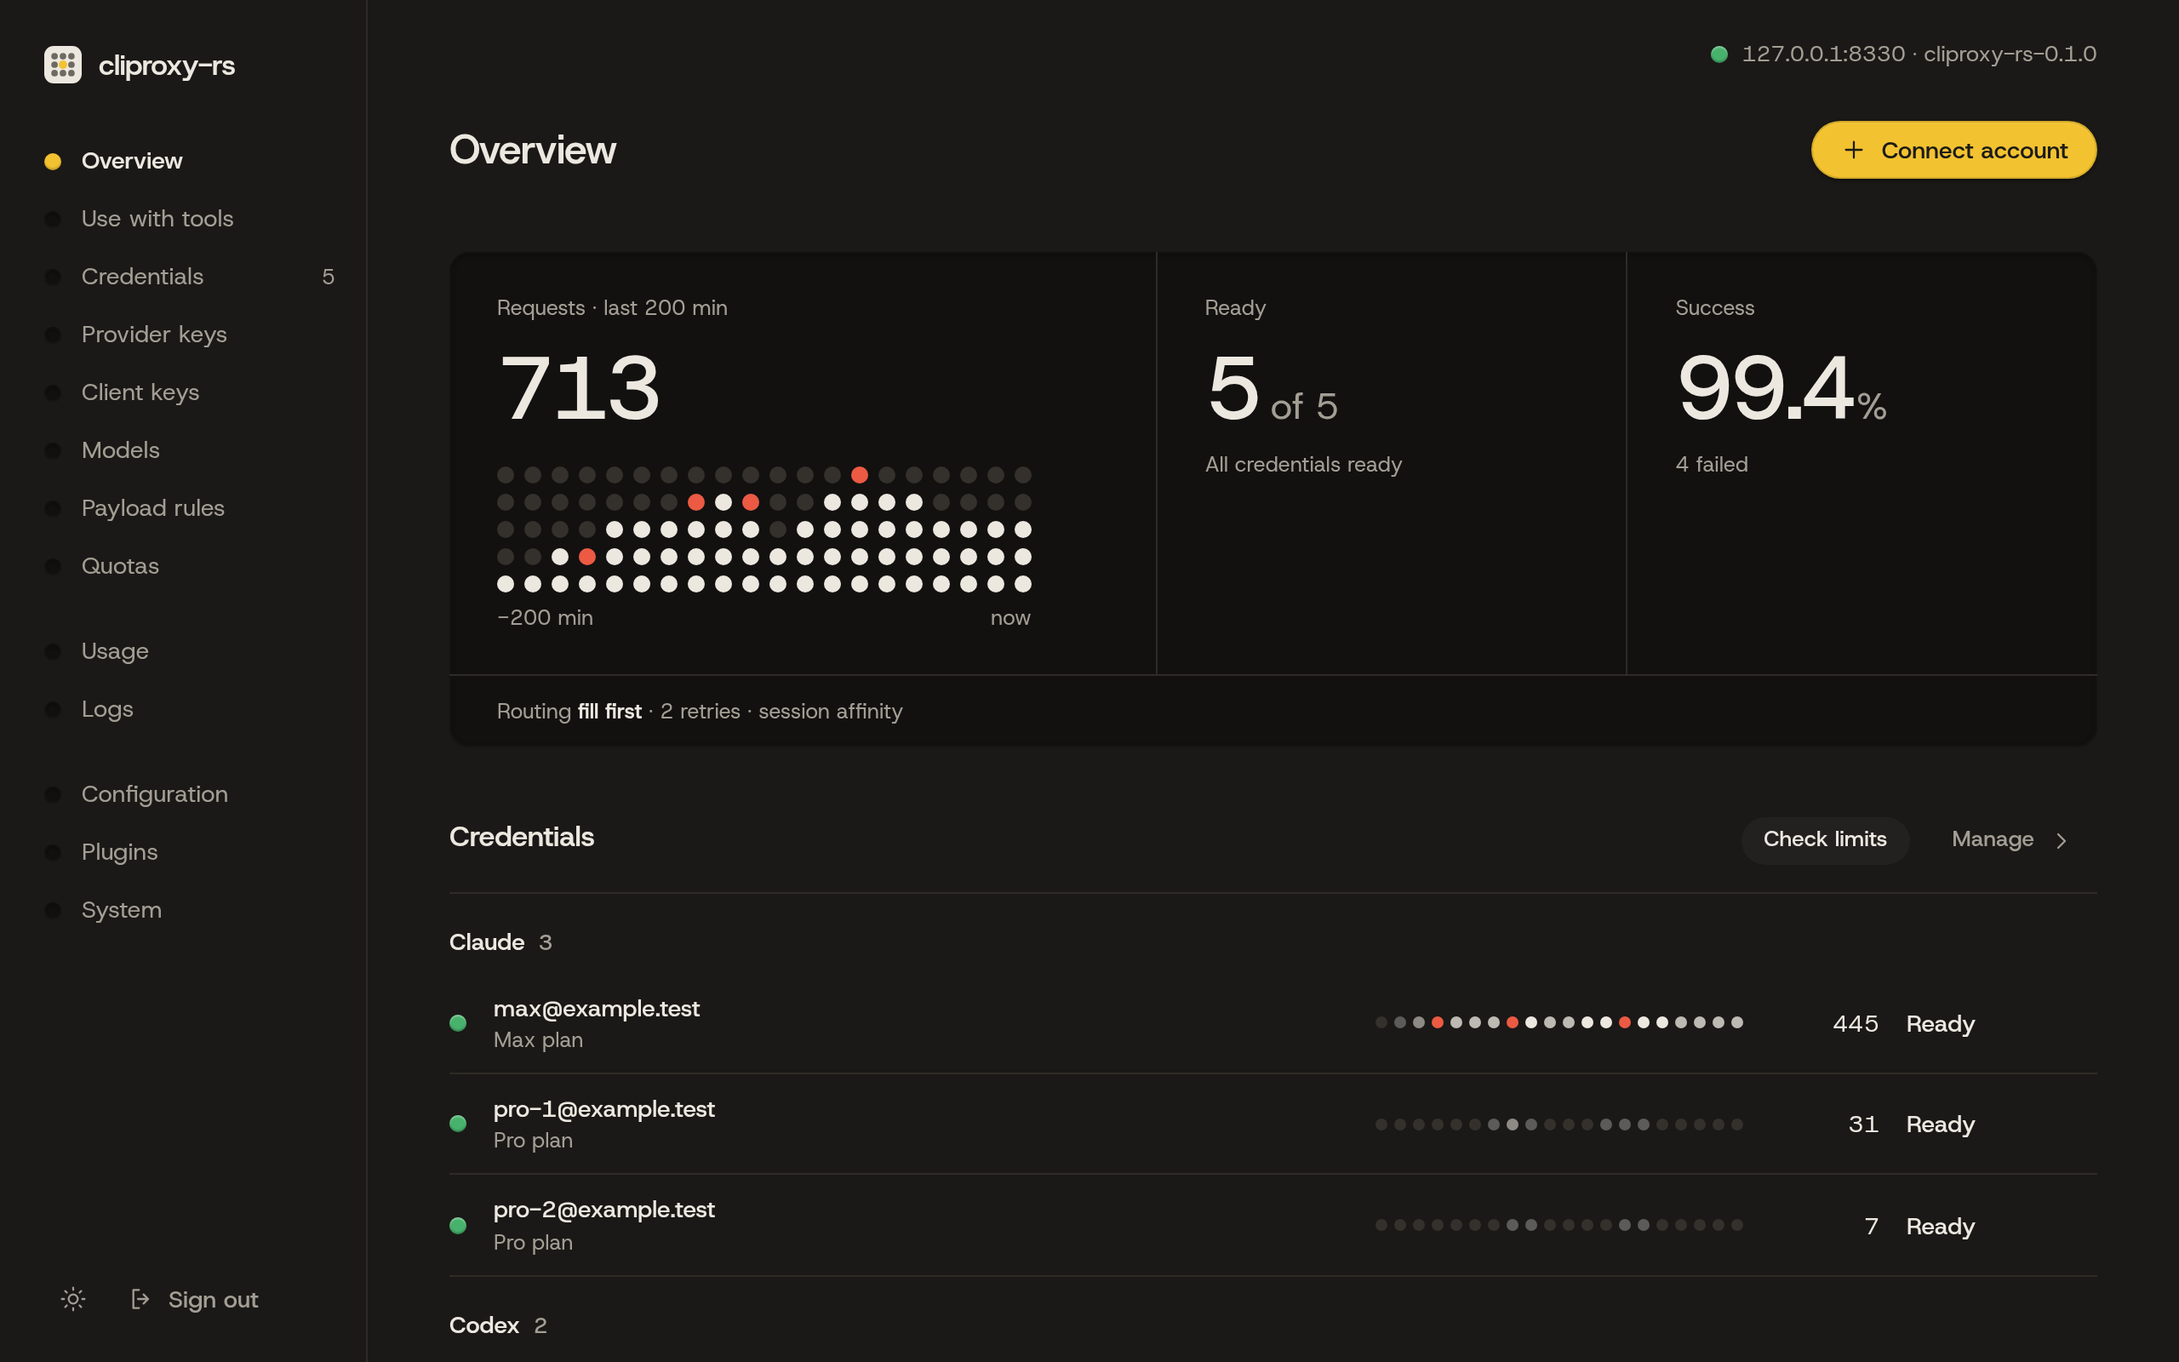
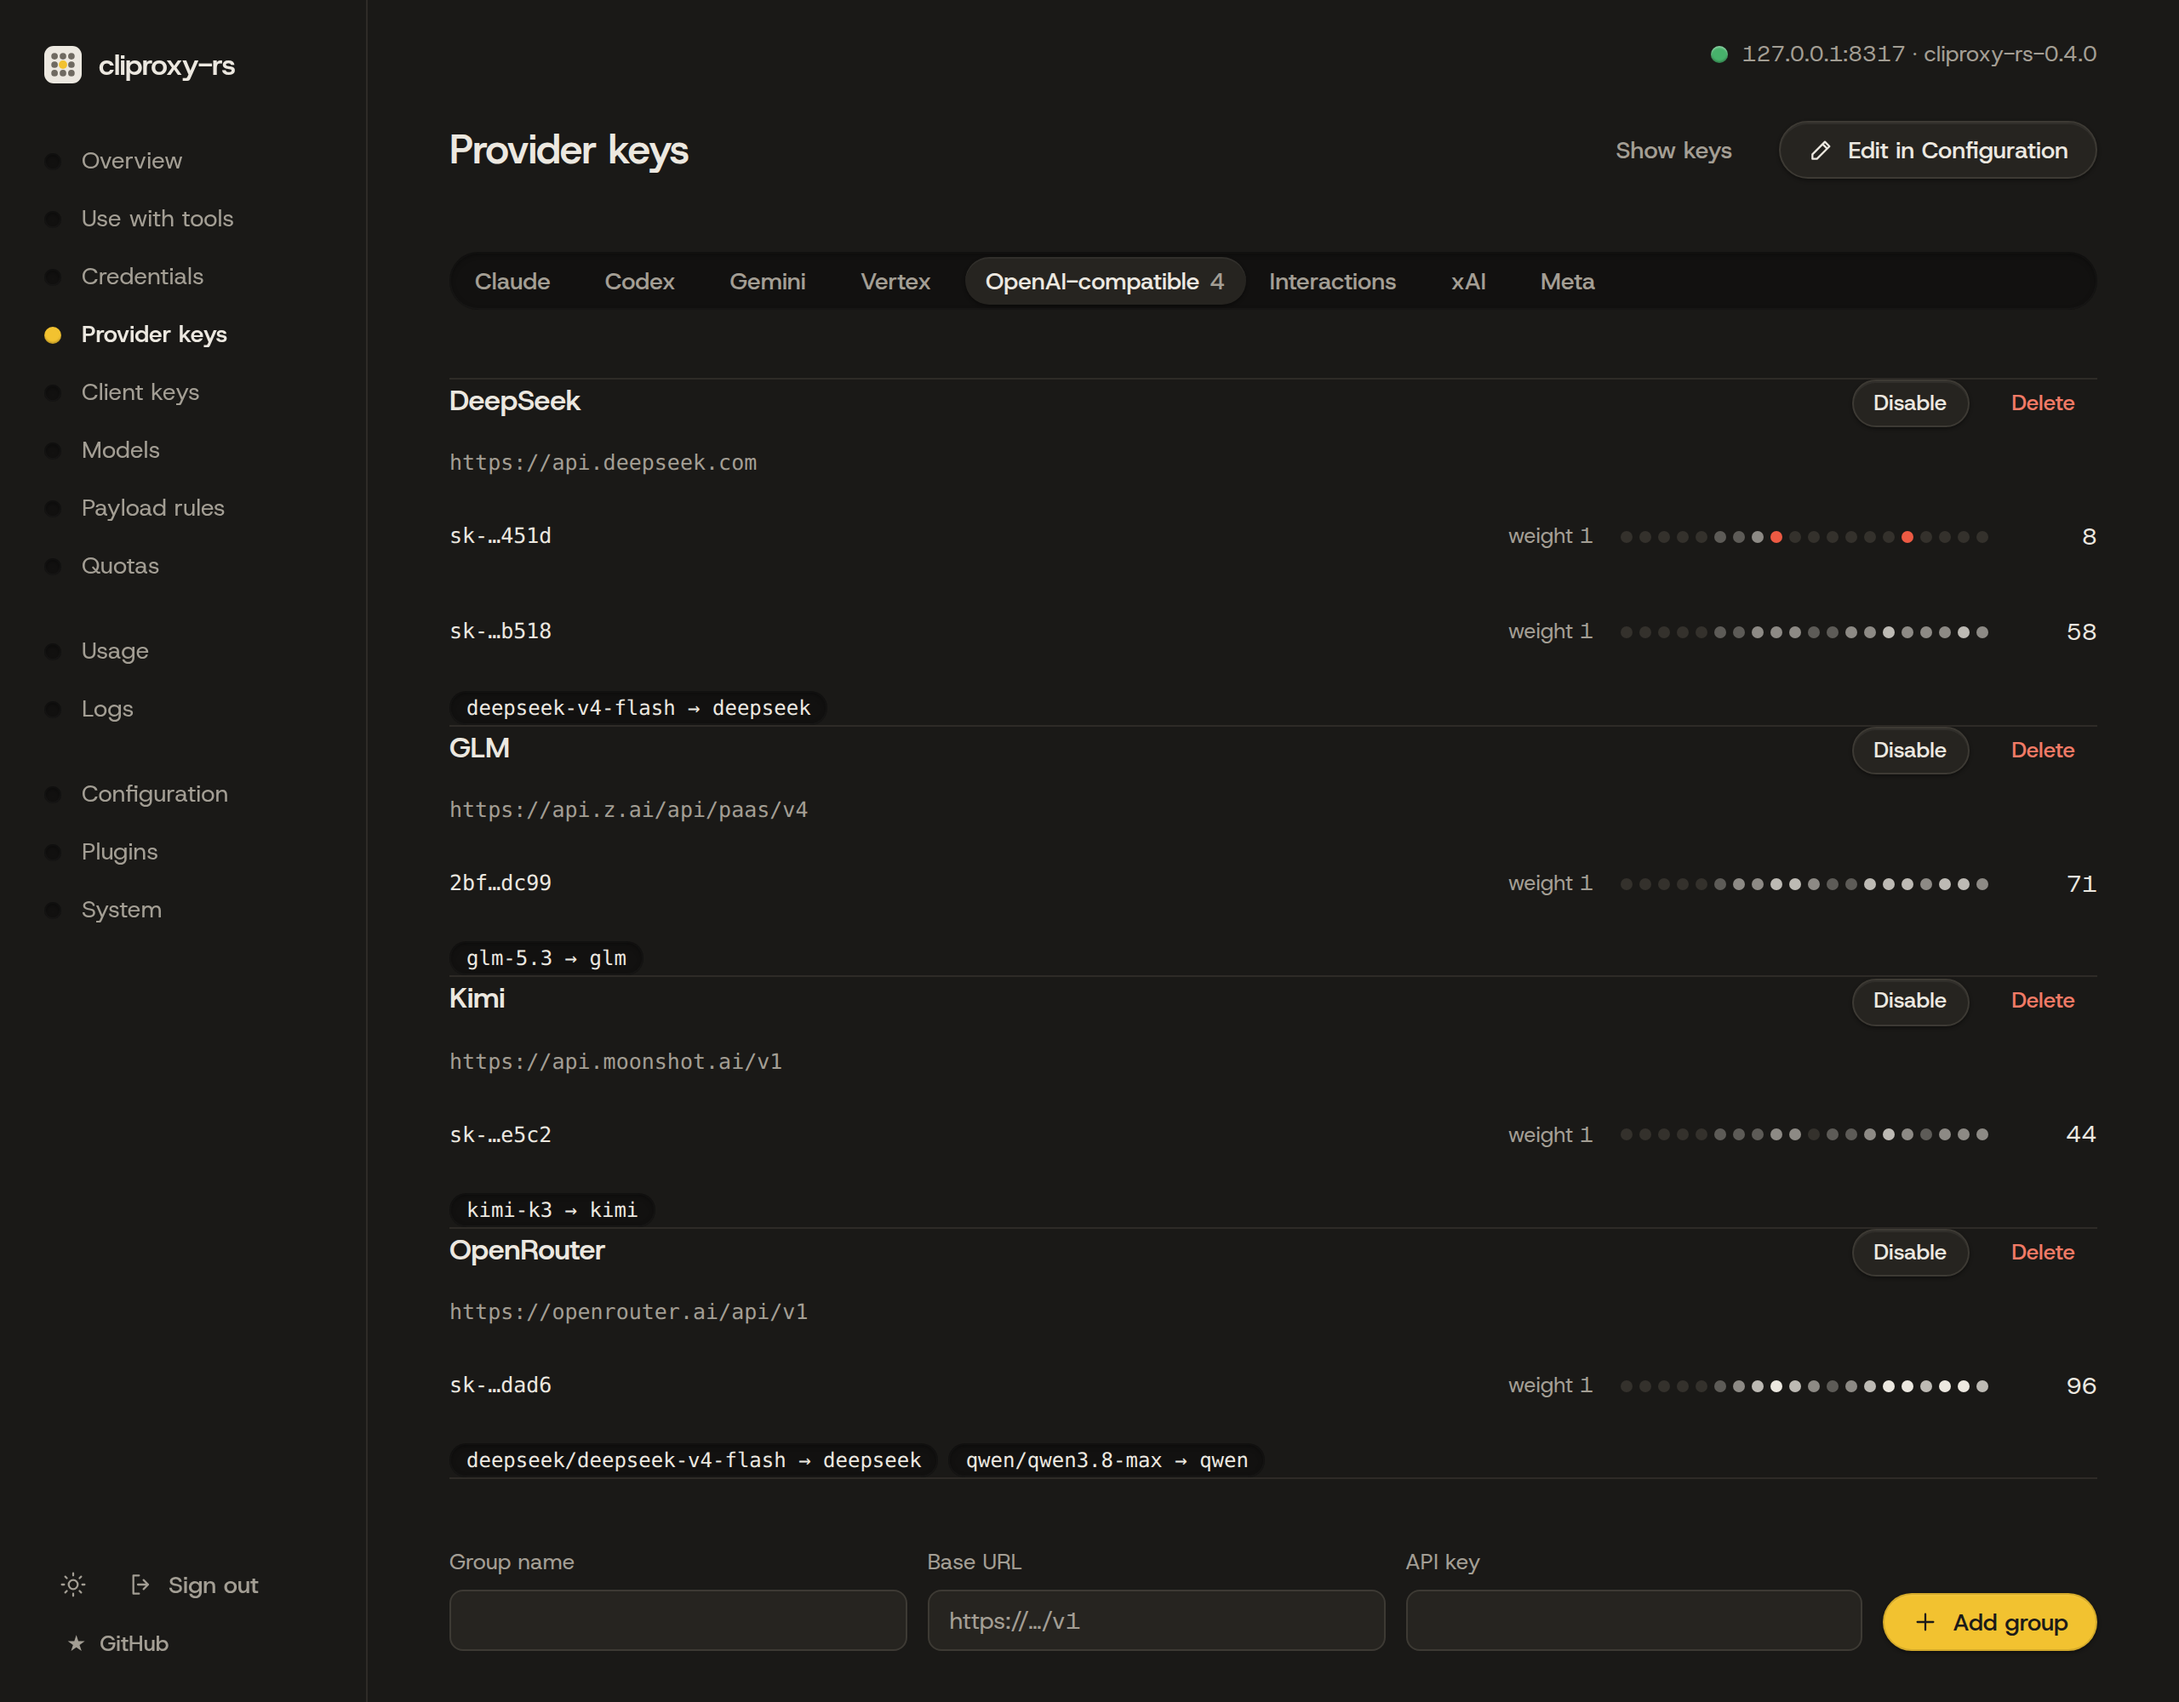
README: hero and dashboard screenshots show API-key providers
The hero GIF now shows what the proxy does. Codex CLI sends a Responses
request to cliproxy-rs on 127.0.0.1:8317, which translates it to Chat
Completions for DeepSeek and moves it to the second key when the first
answers 429. Claude Code's Messages requests reach GLM the same way. It
is drawn at 880 px and exported at twice that so the text stays sharp:
399 KB, down from 1.6 MB.

The dashboard screenshots are retaken from the 0.4.0 release binary on
port 8317 with demo data: four OpenAI-compatible providers (DeepSeek
with two keys, GLM, Kimi and OpenRouter), no subscription accounts, and
429s from one DeepSeek key. The requests went to local mock upstreams;
the base URLs shown are the providers' real ones.

The "New in 0.4.0" paragraph becomes one line that links to the release
notes and their "Before you upgrade" section. Quick start points to the
install command at the top of the page instead of repeating it.

"How it compares" drops the rows where every project said yes and adds
release size and memory for cliproxy-rs 0.4.0 and CLIProxyAPI v8.0.35.
Idle memory at start (25.8 MB against 49.7 MB) comes from bench/run.sh's
idle scenario on 31 October; the raw results are in bench/results. The
field-mix hour of 28 October is there too, including Go's lower memory
after 5 minutes idle. BENCHMARKS.md gets a section for the new size and
idle numbers.

diff --git a/README.md b/README.md
@@ -18,10 +18,10 @@ curl -fsSL https://raw.githubusercontent.com/vayungodara/cliproxy-rs/master/inst
 On Windows, or with Homebrew or Scoop, see [Quick start](#quick-start).
 
 <p align="center">
-  <a href="https://github.com/vayungodara/cliproxy-rs/releases/latest"><img src="docs/img/hero.gif" alt="cliproxy-rs: one local endpoint for Claude, Codex, Gemini, xAI, Kimi, Meta, Devin and OpenRouter" width="880"></a>
+  <a href="https://github.com/vayungodara/cliproxy-rs/releases/latest"><img src="docs/img/hero.gif" alt="cliproxy-rs on 127.0.0.1:8317 translates a Codex CLI Responses request to Chat Completions for DeepSeek and moves it to a second key when the first answers 429. Claude Code's Messages requests reach GLM the same way. Kimi and OpenRouter are the other providers shown." width="880"></a>
 </p>
 
-New in 0.4.0: config files load the way CLIProxyAPI's YAML library reads them, streams that end early fail the way CLIProxyAPI fails them, and the Antigravity, Gemini, Vertex, Codex and xAI providers follow CLIProxyAPI v8.0.35 more closely. Codex clients can use tool search on the Responses routes. Some configs load differently or no longer load, so read "Before you upgrade" in the [release notes](https://github.com/vayungodara/cliproxy-rs/releases/tag/v0.4.0) first.
+0.4.0 changes how some configs load. Read [Before you upgrade](https://github.com/vayungodara/cliproxy-rs/releases/tag/v0.4.0#:~:text=Before%20you%20upgrade) in the [release notes](https://github.com/vayungodara/cliproxy-rs/releases/tag/v0.4.0) first.
 
 > **Set it up with your coding agent.** Paste this into Claude Code, Codex or Amp on the machine where the proxy should run:
 >
@@ -31,13 +31,7 @@ New in 0.4.0: config files load the way CLIProxyAPI's YAML library reads them, s
 
 ## Quick start
 
-1. On macOS or Linux:
-
-   ```sh
-   curl -fsSL https://raw.githubusercontent.com/vayungodara/cliproxy-rs/master/install.sh | sh
-   ```
-
-   On Windows, in PowerShell:
+1. On macOS or Linux, run the install command at the top of this page. On Windows, in PowerShell:
 
    ```powershell
    irm https://raw.githubusercontent.com/vayungodara/cliproxy-rs/master/install.ps1 | iex
@@ -55,12 +49,12 @@ Run the install command again to upgrade, or `brew upgrade cliproxy-rs` with Hom
 
 ## What is this?
 
-cliproxy-rs is a Rust rewrite of [CLIProxyAPI](https://github.com/router-for-me/CLIProxyAPI). It reads the same `config.yaml` and credential formats and implements the client routes and v8 Management API. The dashboard shows accounts, provider limits, request history and tool settings.
+cliproxy-rs is a Rust rewrite of [CLIProxyAPI](https://github.com/router-for-me/CLIProxyAPI). It reads the same `config.yaml` and credential formats and implements the client routes and v8 Management API. The dashboard shows provider keys and their traffic, request history and tool settings.
 
 <p align="center">
   <picture>
     <source media="(prefers-color-scheme: dark)" srcset="docs/img/overview-dark.png">
-    <img src="docs/img/overview-light.png" alt="The dashboard: recent requests, ready accounts and provider limits" width="880">
+    <img src="docs/img/overview-light.png" alt="The dashboard's Provider keys page with demo data: DeepSeek, GLM, Kimi and OpenRouter API keys and their requests over the last 200 minutes. Red dots mark the 429s from one DeepSeek key; the second key took those requests." width="880">
   </picture>
 </p>
 
@@ -68,18 +62,19 @@ The compatibility target is CLIProxyAPI v8.0.35. Parity is incomplete: the audit
 
 ## How it compares
 
-Checked against each project's own README on 28 October 2026.
+Checked against each project's own README on 28 October 2026. All five translate between the OpenAI and Anthropic formats, Responses to Chat Completions included, and can move a request to another key when one fails¹.
 
 | | cliproxy-rs | [CLIProxyAPI](https://github.com/router-for-me/CLIProxyAPI) | [claude-code-router](https://github.com/musistudio/claude-code-router) | [LiteLLM](https://github.com/BerriAI/litellm) | [opencodex](https://github.com/lidge-jun/opencodex) |
 | --- | --- | --- | --- | --- | --- |
-| Language and footprint | Rust, one binary | Go, one binary¹ | Node.js 22+ (npm), desktop app, Docker | Python (pip or uv), Docker | Bun (npm), desktop app, Docker |
-| Responses ↔ Chat Completions translation | Yes | Yes¹ | Yes | Yes | Yes |
-| Anthropic ↔ OpenAI translation | Yes | Yes | Yes | Yes | Yes |
-| Multi-key failover | Yes | Yes¹ (its README names round-robin) | Yes | Yes | Yes |
+| Language and packaging | Rust, one binary | Go, one binary¹ | Node.js 22+ (npm), desktop app, Docker | Python (pip or uv), Docker | Bun (npm), desktop app, Docker |
+| Linux x86_64 release² | 19.0 MB download, 44.6 MB binary with the dashboard | 23.6 MB download, 71.1 MB binary; it downloads its panel at start | Not measured | Not measured | Not measured |
+| Memory² | 25.8 MB idle at start; in the field-mix hour, 161.5 MB peak and 97.8 MB after 5 min idle | 49.7 MB idle at start; in the field-mix hour, 198.3 MB peak and 75.8 MB after 5 min idle | Not measured | Not measured | Not measured |
 | Built-in dashboard | Yes, in the binary | Separate project (Management Center) | Yes | Yes | Yes |
-| CLIProxyAPI config compatibility | Partial: same files, [partial parity](docs/PARITY.md) | It is the reference | No | No | No |
+| Reads CLIProxyAPI's config and credential files | Yes, with [partial parity](docs/PARITY.md) | It is the reference | No | No | No |
 
 ¹ Not stated in CLIProxyAPI's README; checked in its v8.0.35 source and release assets. cliproxy-rs's translation and failover are ports of that code.
+
+² cliproxy-rs 0.4.0 and CLIProxyAPI v8.0.35 release binaries. Idle at start is the RSS 15 seconds after launch with one API key and no traffic, measured on one Linux machine on 31 October 2026. The field-mix hour sent streamed Claude and Codex requests of about 1 MB for an hour, each server on its own GitHub-hosted runner at the same time, on 28 October 2026. [BENCHMARKS.md](docs/BENCHMARKS.md#size-and-idle-memory-040-against-v8035) has both.
 
 Where the others are stronger:
 

diff --git a/docs/BENCHMARKS.md b/docs/BENCHMARKS.md
@@ -96,6 +96,20 @@ Linux x86_64. The cliproxy-rs binary includes its dashboard; the Go binary does 
 
 The cliproxy-rs binary links glibc and libstdc++ dynamically; BoringSSL is linked in. The Go binary is the official release build (stripped), and its archive also holds two READMEs and the example config.
 
+## Size and idle memory: 0.4.0 against v8.0.35
+
+Measured on 2026-10-31 with the Linux x86_64 release archives of cliproxy-rs 0.4.0 (`cliproxy-0.4.0-x86_64-unknown-linux-gnu.tar.gz`) and CLIProxyAPI v8.0.35 (`CLIProxyAPI_8.0.35_linux_amd64.tar.gz`, checked against the release's `checksums.txt`). Idle memory comes from `bench/run.sh`'s idle scenario with `SCENARIOS=idle` and five rounds, each a fresh process with the [Setup](#setup) config and network isolation. The machine was the maintainer's Linux server (AMD Ryzen 7 5700U, Linux Mint 22.3), not the virtual machine above, so compare these two columns with each other rather than with the 0.1.0 tables.
+
+| | cliproxy-rs 0.4.0 | CLIProxyAPI v8.0.35 |
+| --- | --- | --- |
+| Release archive | 19.0 MB | 23.6 MB |
+| Binary | 44.6 MB, dashboard included | 71.1 MB; Go downloads its panel separately |
+| Startup (ms), median | 26 | 82 |
+| RSS 15 s after start (MB), median | 25.8 | 49.7 |
+
+- These are fresh processes with one API key and no traffic. After load the order changes: five minutes after the [field-mix hour](#against-go-v8035), Go held 75.8 MB and 0.4.0 held 97.8 MB.
+- Raw results: [`bench/results/2026-10-31-idle-v0.4.0.jsonl`](../bench/results/2026-10-31-idle-v0.4.0.jsonl).
+
 ## What the numbers say
 
 - Non-streaming requests: Go is faster. It handled 1,568 requests per second against cliproxy-rs's 1,168, about 34% more, and used less CPU per request (0.62 ms against 0.85 ms). Both servers were CPU-bound in this test.
